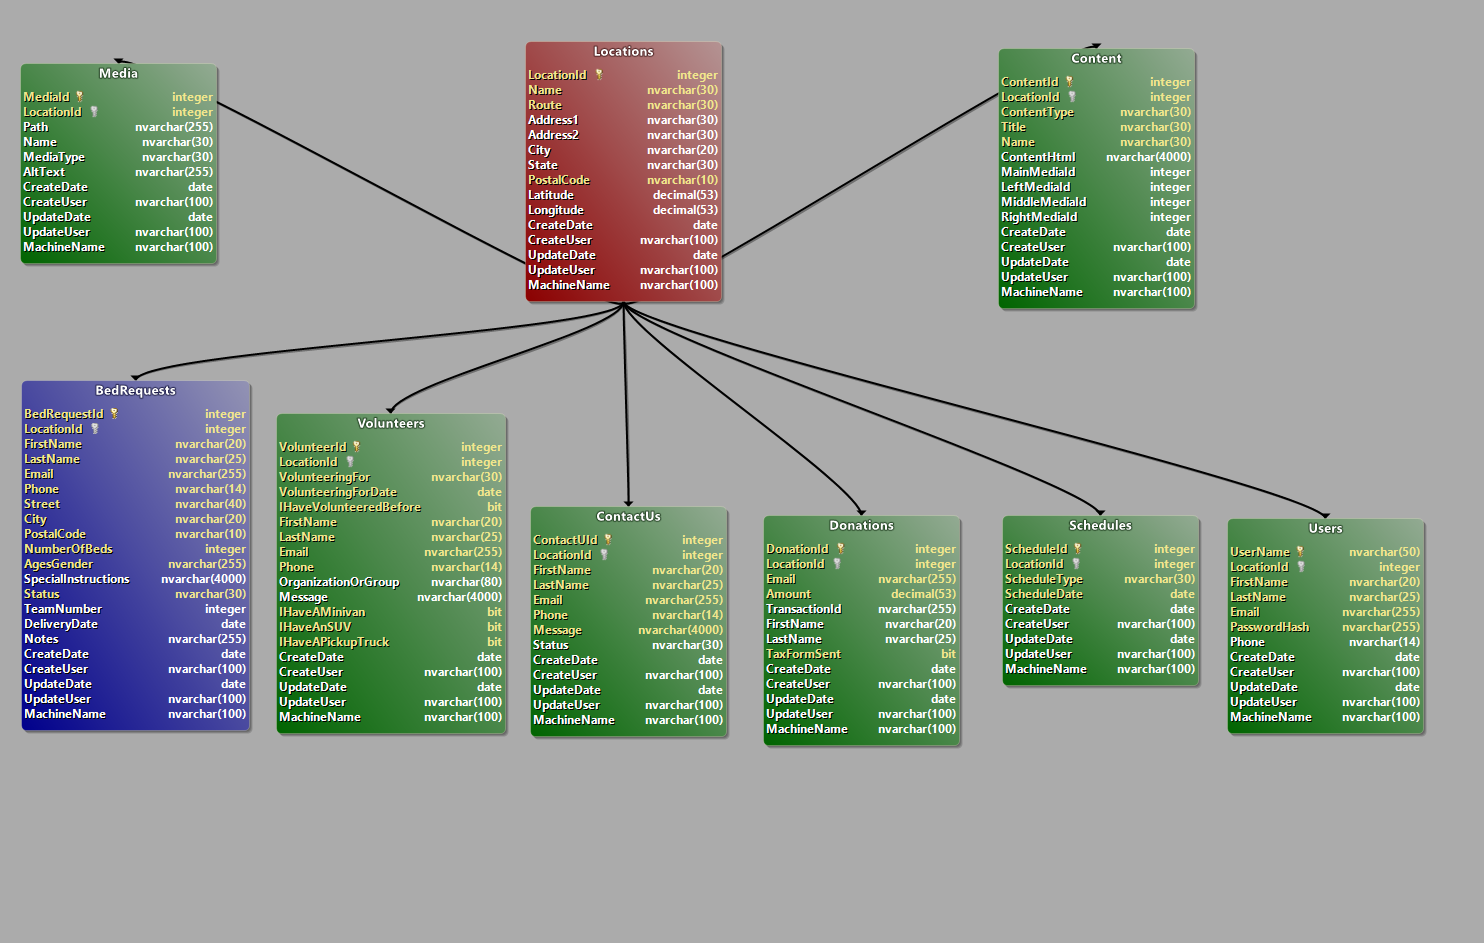
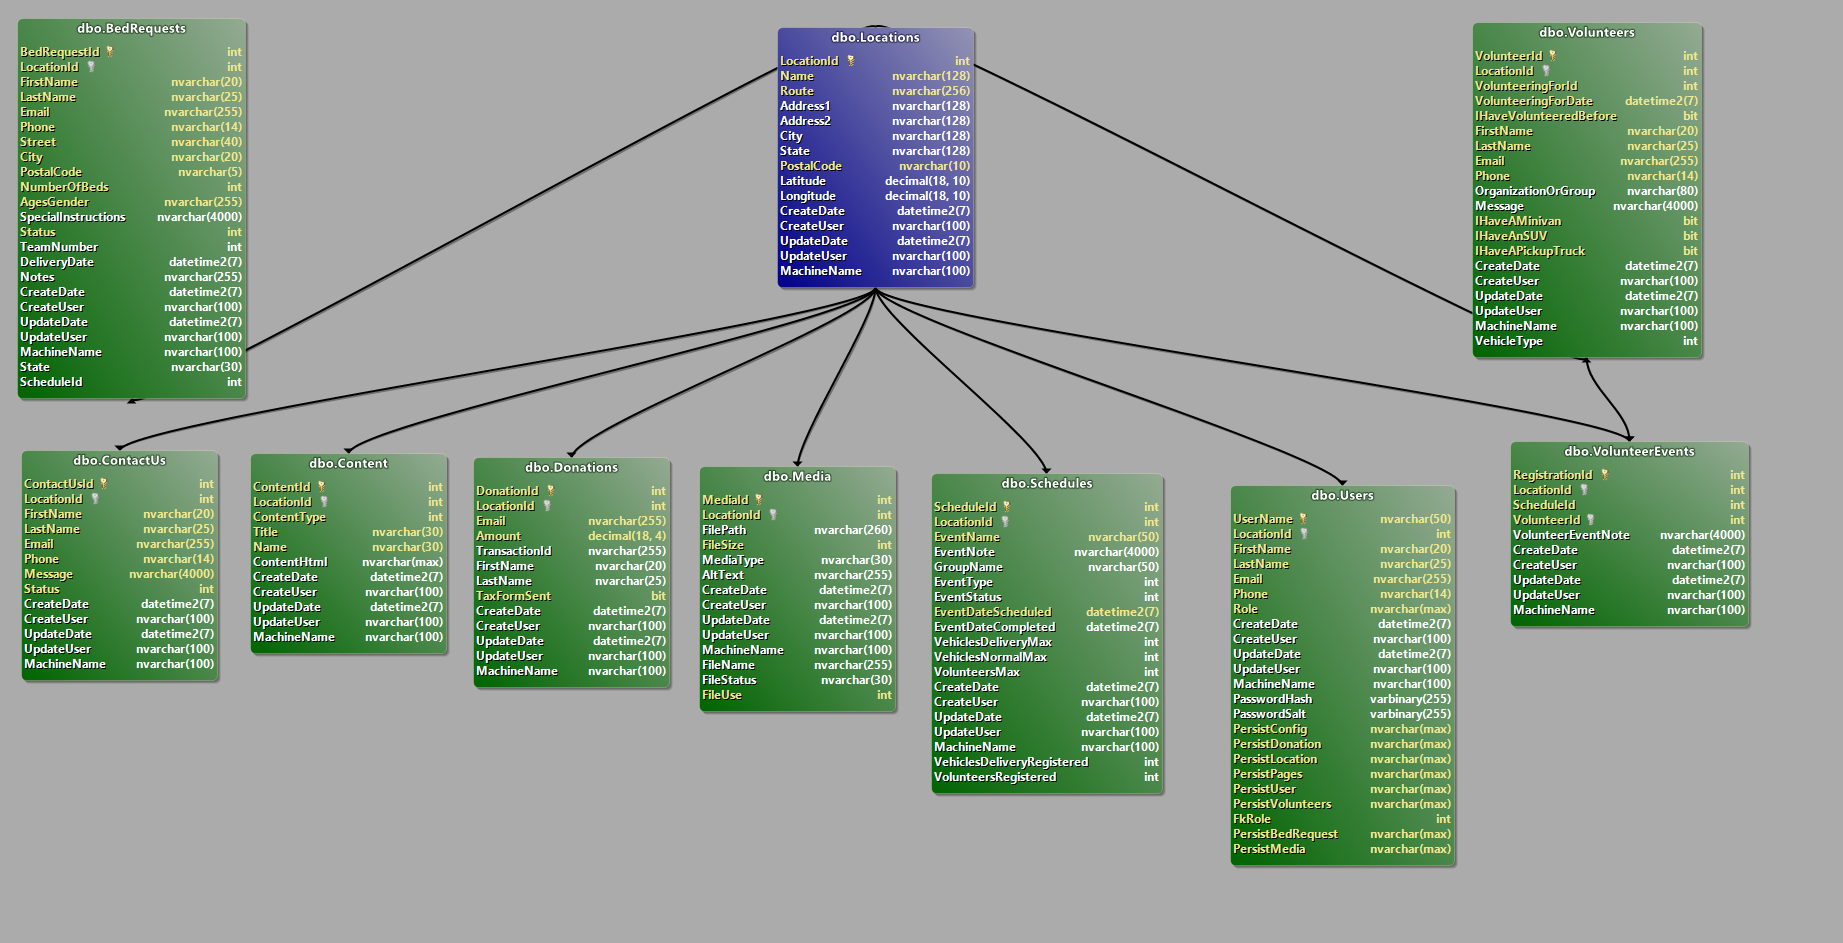
Update Developer Documentation

diff --git a/Documentation/Developer Overview.md b/Documentation/Developer Overview.md
@@ -1,0 +1,15 @@
+# Developer Overview
+
+## Solution Overview
+* The **BedBrigade.Client** project is a Blazor Web App that in Server Interactive Render Mode.
+* The **BedBrigade.Common** project contains the Models and shared business logic.
+* The **BedBrigade.Data** project uses Entity Framework for CRUD operations.
+* The **BedBrigade.Tests** project contains unit tests and code quality tests.
+
+## BedBrigade.Client
+* This project has both client facing and administration pages.  It has a custom content management system (CMS).  
+* MainLayout.razor is used for client facing pages.  It displays a Header and Footer using the respective Header.razor and Footer.razor components.  
+* AdminLayout.razor is used after logging in.  The only difference between the MainLayout and AdminLayout is the AdminLayout does not have a footer.
+* CheckAuthorization.razor is used in the Routes.razor to display a message if they are not authorized.
+* Index.razor displays all of the static content for all locations using the MyBody component.
+* Because there is so much startup code.  The program.cs calls off to StartupLogic.cs which handles everything.  The StartupLogic.cs creates and seeds the database if it does not exist.

diff --git a/README.md b/README.md
@@ -38,6 +38,8 @@ Current Website running in Orchard CMS:  https://www.bedbrigadecolumbus.org/
 
 * [Architecture](Documentation/Architecture.md)
 * [Getting Started](Documentation/Getting%20Started.md)
+* [Developer Overview](Documentation/Developer%20Overview.md)
+* [Developer Notes](Documentation/Developer%20Notes.md)
 * [Entity Framework](Documentation/Entity%20Framework.md)
 * <a href="https://github.com/GregFinzer/BedBrigadeNational/raw/main/Documentation/Design/Estimates.xlsx" target="_blank">Estimates</a>
 * [Implementation Plan](Documentation/Implementation%20Plan.md)

diff --git a/Documentation/Architecture.md b/Documentation/Architecture.md
@@ -15,9 +15,7 @@ BedBrigadeNational\Documentation\Design
 <hr />
 
 ## Application Architecture Diagram
-(This is out of date)
 ![Application Architecture Diagram](Design/Application%20Architecture%20Diagram.png)
 
 ## Entity Relationship Diagram
-(This is out of date)
 ![Entity Relationship Diagram](Design/EntityRelationshipDiagram.png)

diff --git a/Documentation/Developer Notes.md b/Documentation/Developer Notes.md
@@ -1,1 +1,3 @@
-The compilerconfig.json allows the theme.scss to be compiled into theme.css
+# Developer Notes
+
+* The compilerconfig.json allows the theme.scss to be compiled into theme.css
